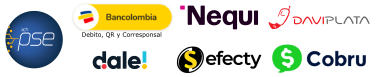
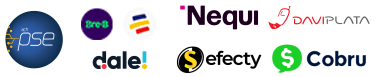
1.6.2

Changed region(s): [[0.2048, 0.0519, 0.4681, 0.5195]]

diff --git a/classes/class-wc-gateway-cobru.php b/classes/class-wc-gateway-cobru.php
@@ -25,6 +25,7 @@ class WC_Gateway_Cobru extends WC_Payment_Gateway
 	public $publishable_key;
 
 	public $cobru;
+	public $breb;
 	public $nequi;
 	public $pse;
 	public $daviplata;
@@ -76,6 +77,7 @@ class WC_Gateway_Cobru extends WC_Payment_Gateway
 
 		// ocastellar 01/09/2021  metodos de pago
 		$this->nequi  			= 'yes' === $this->get_option('NEQUI');
+		$this->breb  			= 'yes' === $this->get_option('Bre-B');
 		$this->pse         		= 'yes' === $this->get_option('pse');
 		$this->daviplata  		= 'yes' === $this->get_option('daviplata');
 		$this->credit_card 		= 'yes' === $this->get_option('credit_card');
@@ -102,6 +104,7 @@ class WC_Gateway_Cobru extends WC_Payment_Gateway
 		$json_metodos_pago .= '"credit_card":' 			. (boolval($this->credit_card) ? 'true' : 'false') . ', ';
 
 		$json_metodos_pago .= '"NEQUI":' 				. (boolval($this->nequi) ? 'true' : 'false') . ', ';
+		$json_metodos_pago .= '"Bre-B":' 				. (boolval($this->breb) ? 'true' : 'false') . ', ';
 		$json_metodos_pago .= '"daviplata":' 			. (boolval($this->daviplata) ? 'true' : 'false') . ', ';
 		$json_metodos_pago .= '"bancolombia_qr":' 		. (boolval($this->bancolombia_qr) ? 'true' : 'false') . ', ';
 		$json_metodos_pago .= '"bancolombia_transfer":' . (boolval($this->bancolombia_transfer) ? 'true' : 'false') . ', ';
@@ -243,6 +246,17 @@ class WC_Gateway_Cobru extends WC_Payment_Gateway
 			'NEQUI'           => [
 				'label'       => __('NEQUI', 'cobru-for-wc'),
 				'id'          => "nequi",
+				'type'        => 'checkbox',
+				'class'       => 'online_payment_method',
+				'description' => '',
+				'custom_attributes' => array(
+					'data-translate' => __('Select payment methods', 'cobru-for-wc'),
+				),
+				'default'           => 'yes'
+			],
+			'Bre-B'              => [
+				'label'       => __('Bre-B', 'cobru-for-wc'),
+				'id'          => __('woocommerce_cobru_breb', 'cobru-for-wc'),
 				'type'        => 'checkbox',
 				'class'       => 'online_payment_method',
 				'description' => '',

diff --git a/classes/class-wc-cobru-api.php b/classes/class-wc-cobru-api.php
@@ -23,7 +23,7 @@ class CobruWC_API
 
 	public function __construct($testmode, $refresh_token, $token, $secret, $payment_method_enabled)
 	{
-		$this->api_url  = $testmode ? 'https://dev.cobru.co/' : 'https://prod.cobru.co/';
+		$this->api_url  = $testmode ? 'https://dev.cobru.co' : 'https://prod.cobru.co';
 		$this->refresh_token    = $refresh_token;
 		$this->token    = $token;
 		$this->secret   = $secret;

diff --git a/cobru-for-wc.php b/cobru-for-wc.php
@@ -15,7 +15,7 @@
  * Description: 	Plugin oficial del API de Cobru para ser usado con WooCommerce en Wordpress.
  * Author: 			COBRU.CO
  * Author URI: 		https://github.com/CobruApp/cobru-for-wc
- * Version: 		1.6.1
+ * Version: 		1.6.2
  * License: 		GPLv3
  * License URI: 	https://www.gnu.org/licenses/gpl-3.0.html
  * Text Domain: 	cobru-for-wc
